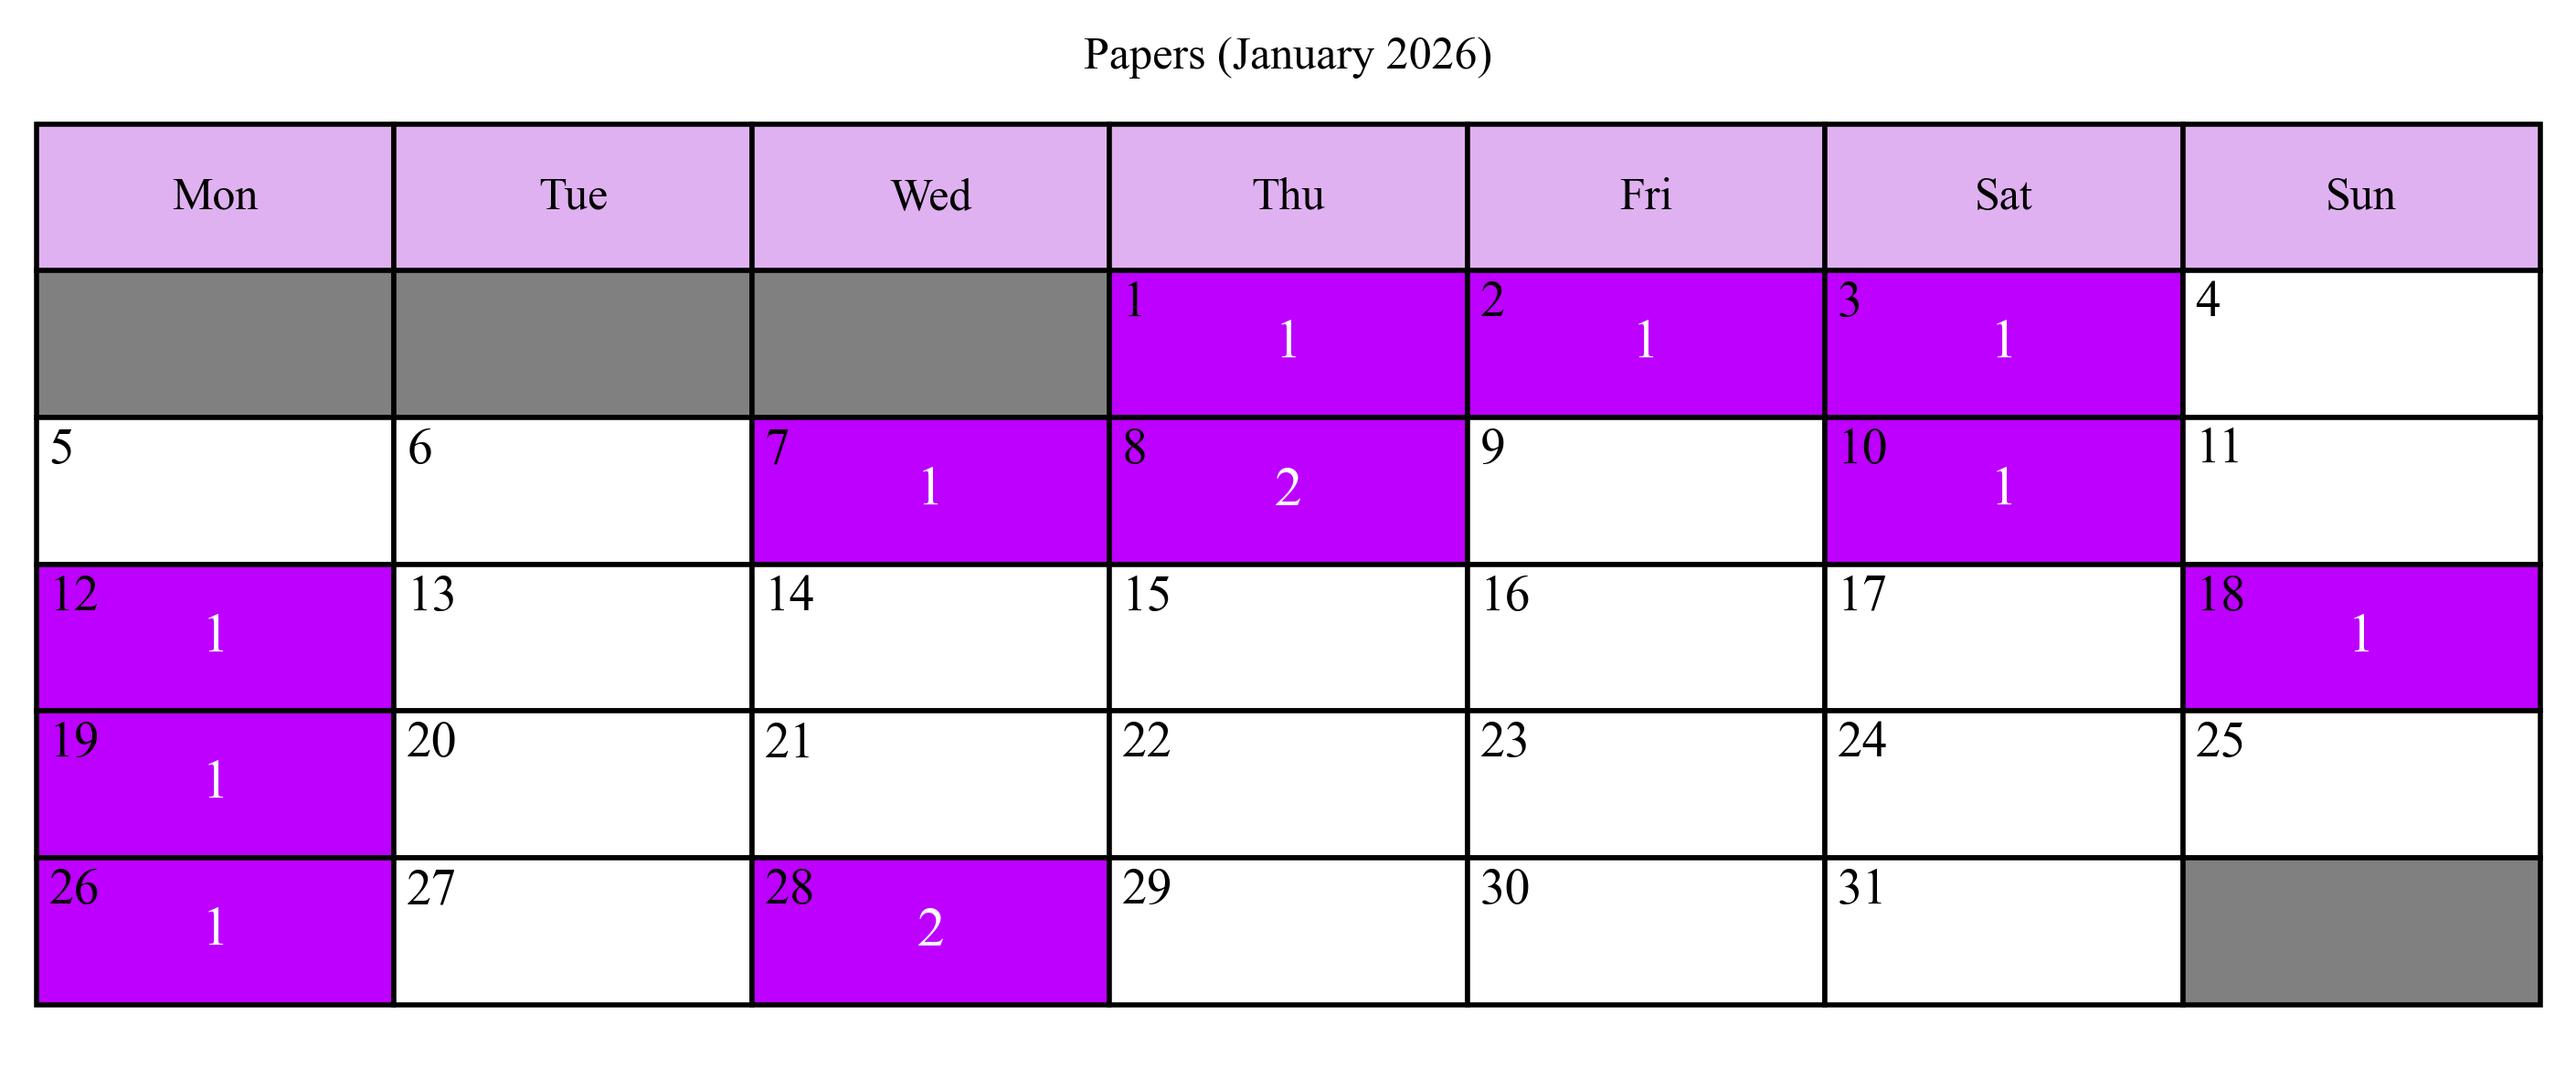
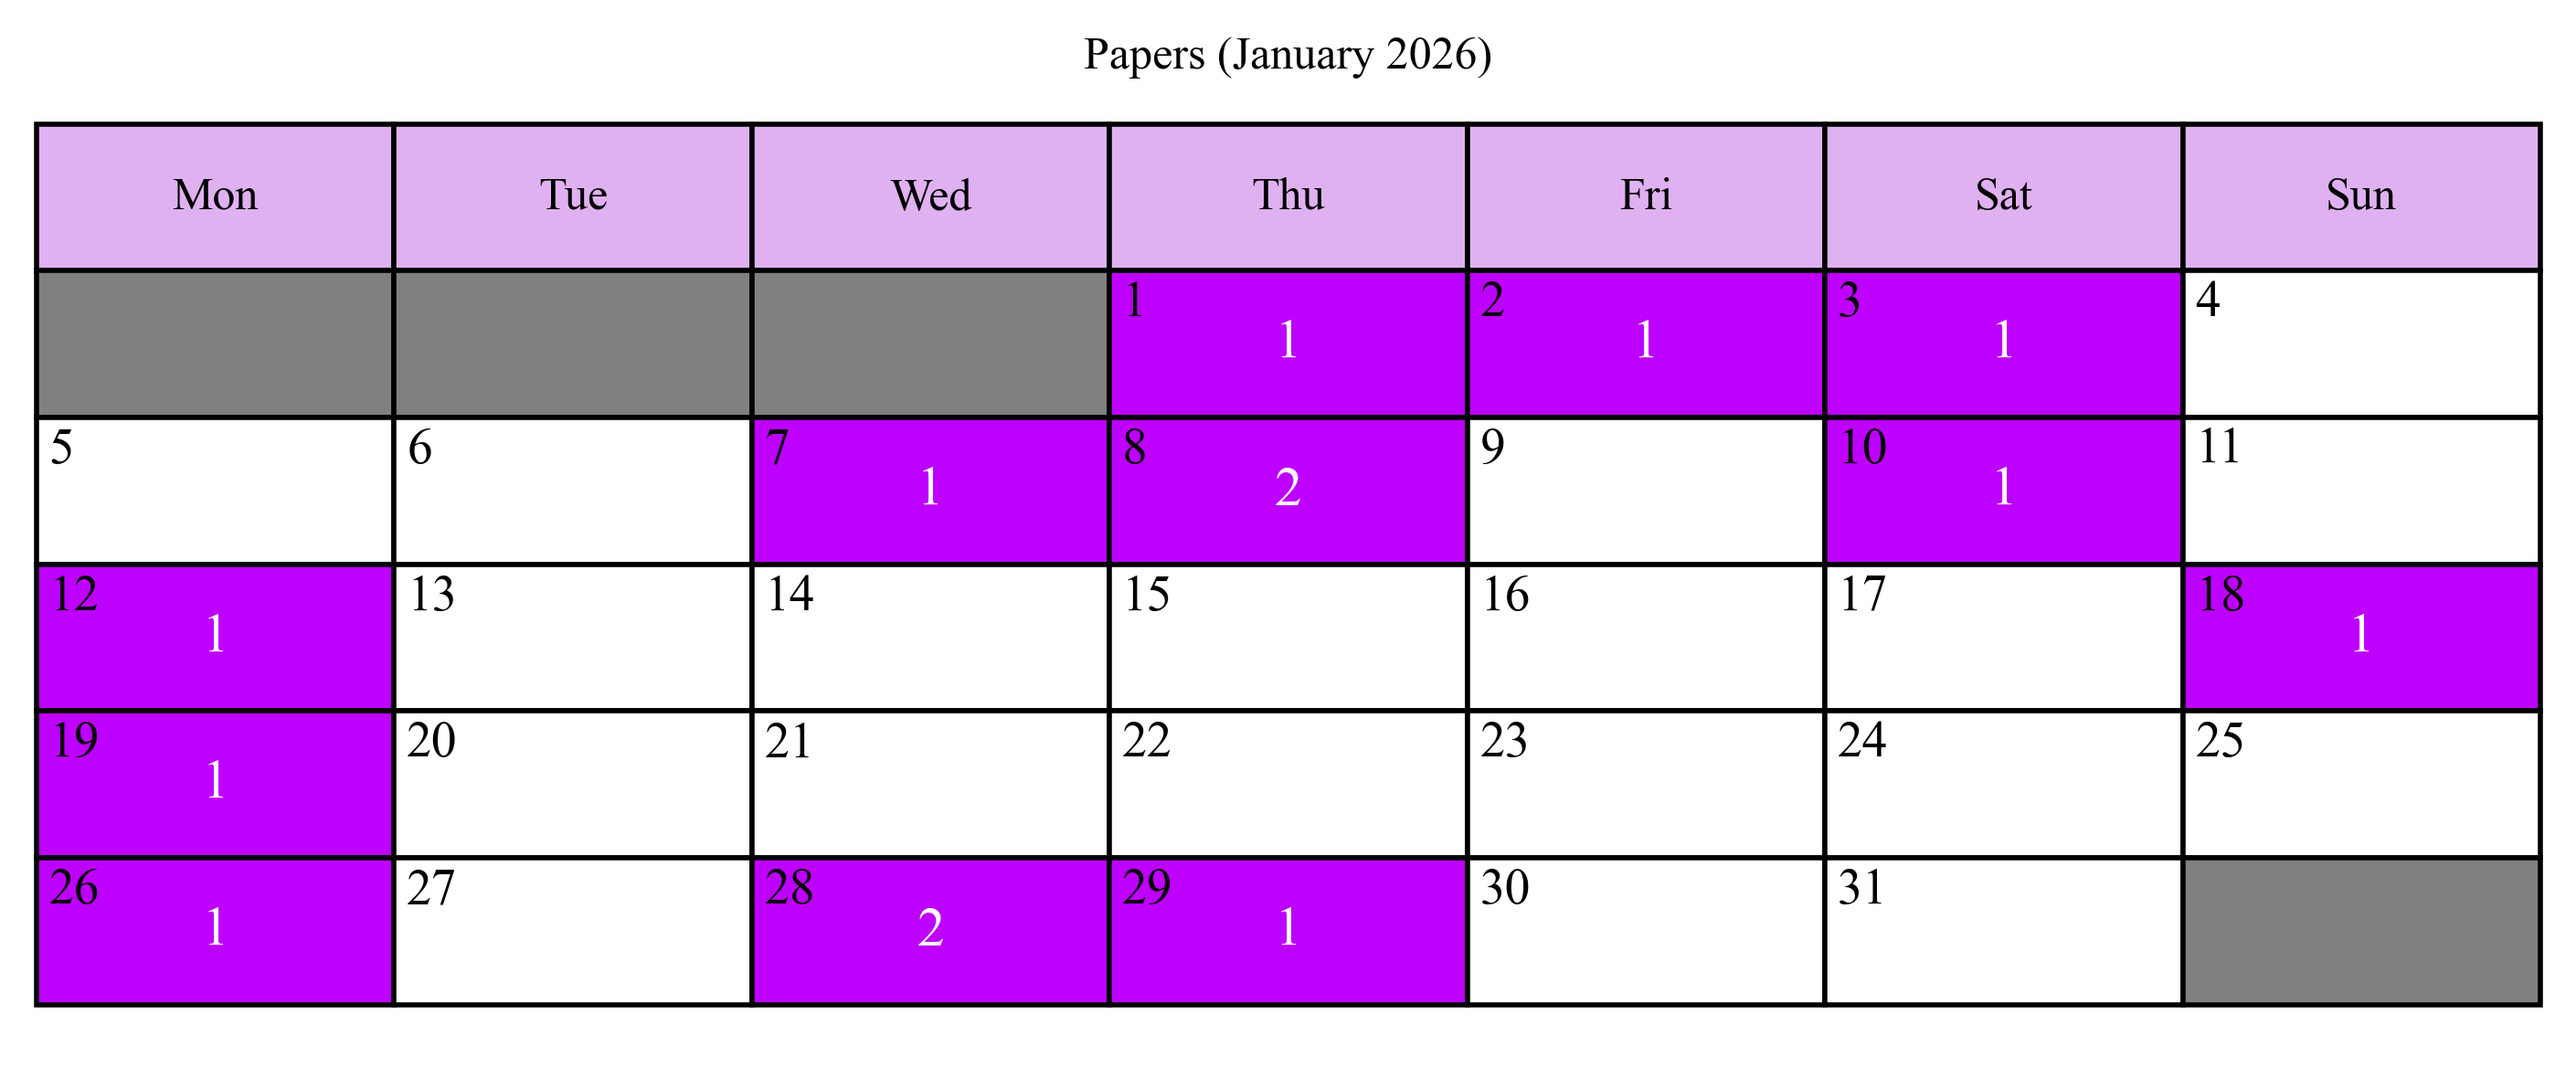
(Automated) updated paper log: January 29, 2026

Changed region(s): [[0.4058, 0.8014, 0.5931, 0.9555]]

diff --git a/papers/index.html b/papers/index.html
@@ -29,11 +29,12 @@
       <div class="main-content">
         <div class="main-section">
           <!-- <summary_text> -->
-<p>This is where I log the papers I've read this year. My goal for 2026 is to read 300 papers. By the time this document was last updated (<b>January 29, 2026</b>), I have read <b>13 papers</b> this year. I should have read <b>22 papers</b> by this time, meaning I am <b>9 papers behind schedule</b>.</p>
+<p>This is where I log the papers I've read this year. My goal for 2026 is to read 300 papers. By the time this document was last updated (<b>January 29, 2026</b>), I have read <b>14 papers</b> this year. I should have read <b>23 papers</b> by this time, meaning I am <b>9 papers behind schedule</b>.</p>
           <!-- </summary_text> -->
           <p><img src="cal.png" style="width: 100%;" alt="A monthly calendar depicting the following tabular data graphically."></p>
           <!-- <paper_table> -->
 <table>
+  <tr><td>1/29/26</td><td>Optimizing Green Energy Consumption of Fog Computing Architectures</td><td><a href="https://ieeexplore.ieee.org/document/9235038" target="_parent">Link</a></td><td>France University of Rennes, IEEE SBAC-PAD, 2020</td></tr>
   <tr><td>1/28/26</td><td>An Online Fragmentation-Aware Scheduler for Managing GPU-Sharing Workloads on Multi-Instance GPUs</td><td><a href="https://arxiv.org/abs/2512.16099" target="_parent">Link</a></td><td>Taiwan Tsing Hua University/IBM, arXiv, 2025</td></tr>
   <tr><td>1/28/26</td><td>Collective Communication for 100k+ GPUs</td><td><a href="https://arxiv.org/abs/2510.20171" target="_parent">Link</a></td><td>Meta, arXiv, 2026</td></tr>
   <tr><td>1/26/26</td><td>Demystifying NCCL: An In-depth Analysis of GPU Communication Protocols and Algorithms</td><td><a href="https://arxiv.org/abs/2507.04786" target="_parent">Link</a></td><td>ETH Zurich/NVIDIA, arXiv, 2025</td></tr>
@@ -61,7 +62,7 @@
       <!-- <last_updated_text> --> 
 <div class="last-updated">
   <p class="last-updated-text">
-    Last updated: January 29, 2026 at 01:45 UTC.
+    Last updated: January 29, 2026 at 17:31 UTC.
   </p>
 </div>
 
